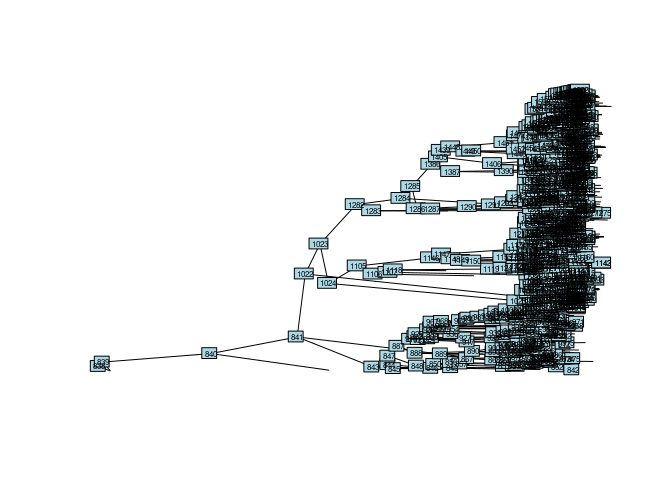
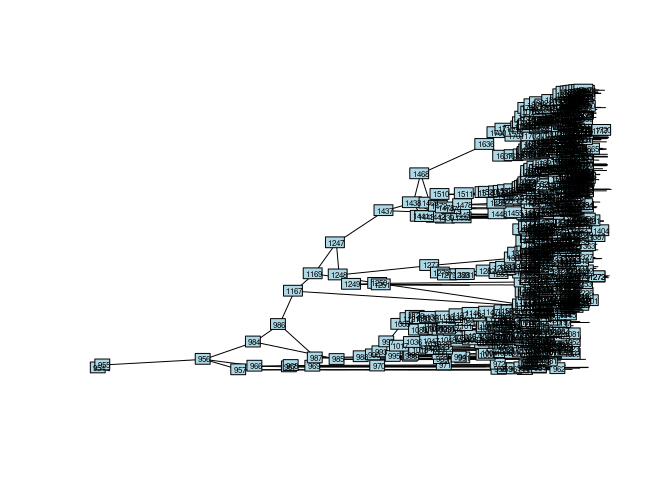
Updated dataset. Includes non-GISAID samples, needed name hacks

Changed region(s): [[0.125, 0.1562, 0.9375, 0.7812]]

diff --git a/B1-6172_results.md b/B1-6172_results.md
@@ -1,6 +1,6 @@
 Results - B.1.617.2, “Delta variant”
 ================
-08/06/2021
+14/06/2021
 
 Phylogeographic mapping
 
@@ -30,9 +30,9 @@ in Table 1.
 
 |                    |    2.5% |     50% |   97.5% |
 |:-------------------|--------:|--------:|--------:|
-| Import             | 13.0000 | 13.0000 | 14.0000 |
-| Local transmission | 45.0000 | 46.0000 | 46.0000 |
-| Import / Total     |  0.2203 |  0.2203 |  0.2373 |
+| Import             | 16.0000 | 16.0000 | 16.0000 |
+| Local transmission | 74.0000 | 74.0000 | 74.0000 |
+| Import / Total     |  0.1778 |  0.1778 |  0.1778 |
 
 ![](B1-6172_results_files/figure-gfm/unnamed-chunk-5-1.png)<!-- -->
 
